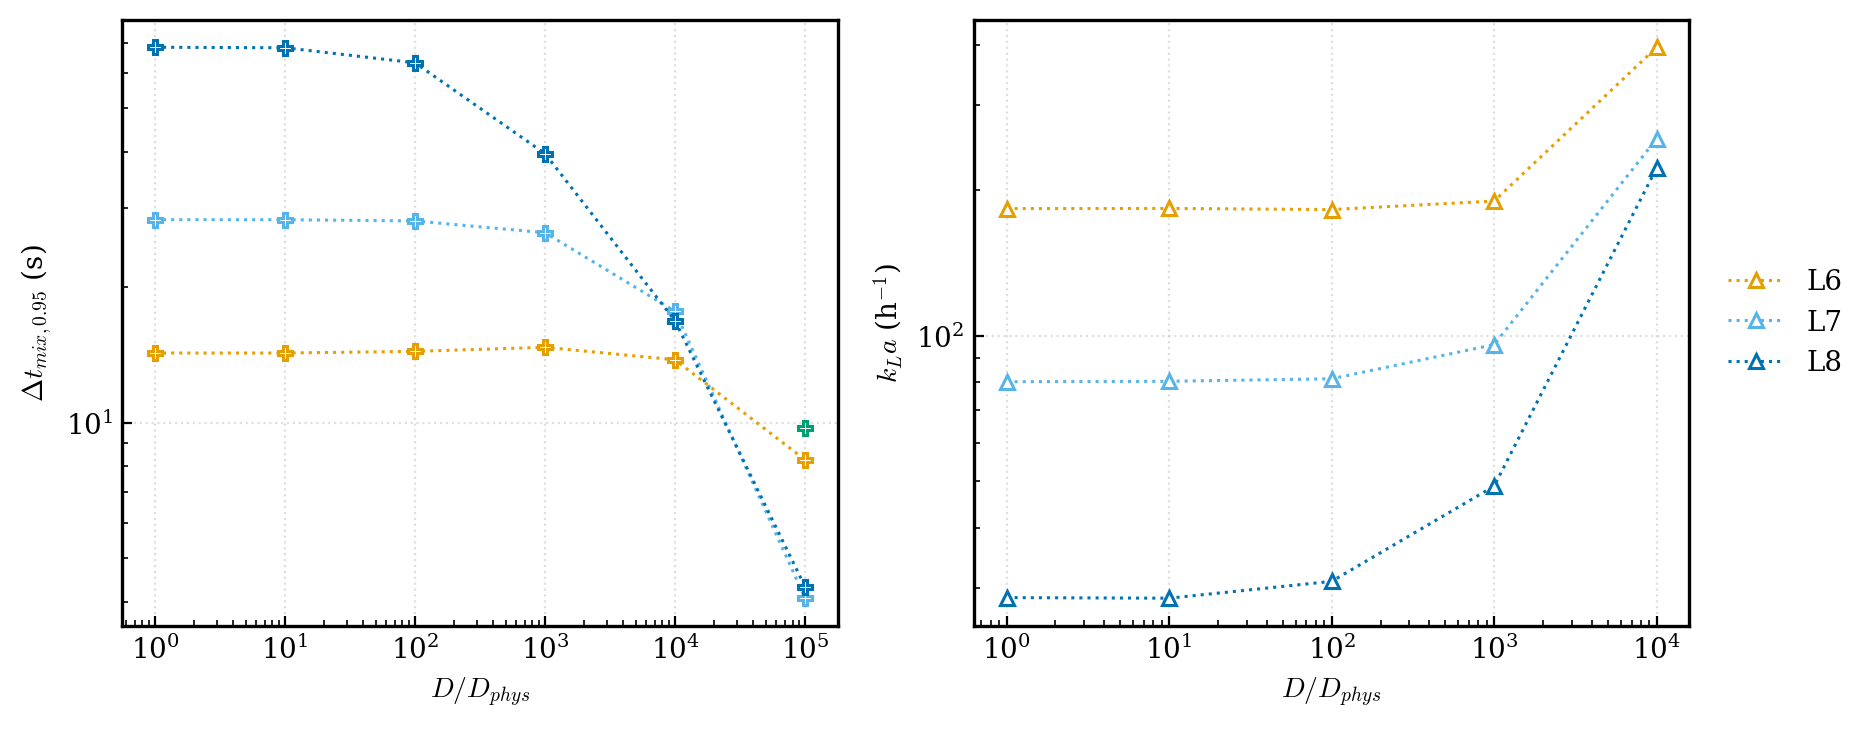
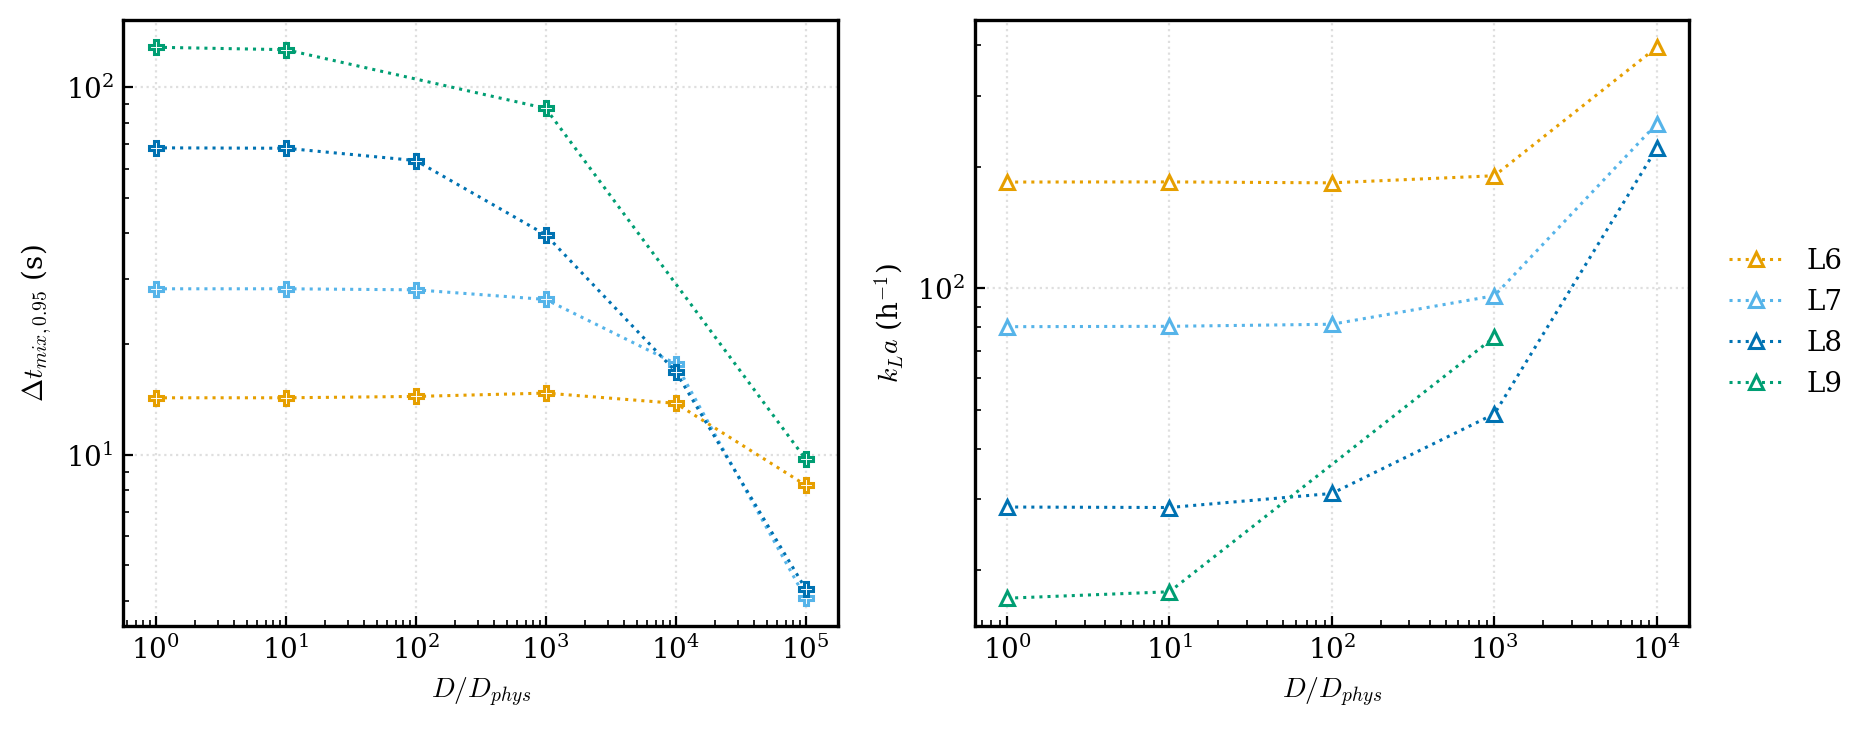
test K final: INCONCLUSIVE by rule (L9 control fails at chi 0.95); dtmix grid-controlled at L7-L9 (<=1.7% per 10x D)
Claude-Session: https://claude.ai/code/session_01YAKLKMs5oUYu8r6RenvudK

diff --git a/diary.md b/diary.md
@@ -87,7 +87,7 @@ Open tests (pre-registered in the 2026-10-10/11 entries; power stated there). St
   32.5 rpm pass. 6-cycle continuation x8e_l10_rpm{17.5,25} (jobs 7296699-700) decides transient vs bias.
 - T6 rpm x theta L8 grid: DONE (40/40 + theta 7 = 50-run LF set).
 - Question chain for the talk: Q1 fixed-scale mixing (test L), Q2 why dtmix_0.95 jumps (P done; I: not islands at L8),
-  Q3 grid control of dtmix/kLa (K: L7, L8 grid-controlled; L9 pending).
+  Q3 grid control of dtmix/kLa (K: INCONCLUSIVE by rule (L9 control failed at chi 0.95); (i) holds L7-L9).
 - Plan: docs/dfd_plan.md v2 is STALE; v3 after K (L9), L and I.
 
 CORRECTIONS (conflicting statements in the archive or earlier entries, resolved; see also the audit facts above)
@@ -364,3 +364,9 @@ C. kLa: "convergence plausible" (archive) vs "falls 1.7-2.8x per level, not conv
   32.5 rpm: lambda_c = 4.36 mm (L8, 4.5 dx) vs 2.98 mm (L9, 6.1 dx), ratio 1.47 (GRID band 1.5-2.5 needs also lambda/dx 1-3; NOT band 0.8-1.25 needs >= 5 dx at both). 37.5 rpm: 3.21 mm (L8, 3.3 dx) vs 3.17 mm (L9, 6.5 dx), ratio 1.01 (same physical length) but L8 is only 3.3 dx < 5.
   Fraction of liquid cells with 0.1 < c < 0.9 in the window: 0.93-1.0 (scal) and 0.64-0.72 (rec_l8): the scalar is NOT in sharp striations; it is smooth on a ~3-4 mm scale.
   Reading (descriptive; the rule did not decide): the solver's scalar microscale is a few mm, 3-6 cells, and at 37.5 rpm it is already the same physical length at L8 and L9; the physical Batchelor scale is 4-10 um (diag_batchelor.py), ~1000x smaller. So the gradients the solver resolves are set by the stirring scale plus numerical smoothing, not by molecular diffusion. Power note: my bands left a gap (ratio 1.25-1.5, or lambda/dx 3-5) where the data fell; the test was well-posed but its bands were too narrow to classify this regime. Together with K and L: dtmix is set by numerical diffusion acting on a mm-scale scalar field; nothing in L6-L9 resolves the physical scalar scale.
+- Test K FINAL (2026-10-12 00:40, all 22 runs; scripts/test_k_diffusivity.py; experiments/multifidelity/test_k_summary.json/png): **INCONCLUSIVE** under the pre-registered rule, solely because (ii) failed (L9 vs L8 at s = 1e5, dtmix_0.95 +125%; see the 20:05 entry). Not rejected (L8 s 1 -> 10: <= 0.5%).
+  (i) holds at L7, L8 AND L9: dtmix(s = 10)/dtmix(s = 1) - 1 = 0.0 / -0.5 / -1.7% (chi 0.50), 0.0 / -0.3 / -1.1% (0.75), 0.0 / -0.3 / -1.5% (0.95). Power of (i) at L9: a physics-controlled dtmix would move ~13% per decade (pre-registration); measured <= 1.7%, replicate log-sd 0.02. So L9 is still grid-controlled at physical D for dtmix, with high power.
+  L9 at s = 1: dtmix 39.52 / 72.89 / 128.28 s, kLa_1T_25 14.84 1/h (L8: 11.79 / 23.04 / 68.33 s, 29.35 1/h). s = 1e3 at L9: dtmix -49 / -43 / -32%, kLa_1T_25 x5.7.
+  kLa response to 10x D, as a local exponent n = dlog kLa_1T_25 / dlog D (penetration theory: 0.5): L6 0.001, L7 0.002, L8 0.026, L9 0.077. DESCRIPTIVE / HYPOTHESIS: n grows ~3x per level from L7 to L9; at that rate it would reach ~0.25 at L10 and ~0.5 near L11, i.e. kLa at L10 would still be under-sensitive to D by ~2x in exponent. Three points; not a prediction to rely on.
+  s*(L) at decade resolution (|log change| > 0.10): dtmix_0.95 1e5, 1e4, 1e3, 1e3 for L6-L9; kLa_1T_25 1e4, 1e3, 1e3, 1e3 (L9 has no s = 1e2 run, so s*(L9) is only bounded: (10, 1e3]). The earlier "s* falls ~10x per level" hypothesis is NOT supported from L8 to L9 at this resolution.
+  Talk-relevant claim (Q3), evidence-based: "At L7-L9 the mixing time does not respond to a 10x change of the physical scalar diffusivity (<= 1.7%), while kLa responds weakly and increasingly with level (exponent 0.03 -> 0.08 vs 0.5 theory). Both QoIs are controlled by numerical diffusion up to L9." The positive control (levels collapse at 1e5 D) holds for chi 0.50/0.75 but not 0.95 at L9 (unexplained stall; pocket hypothesis rejected).
